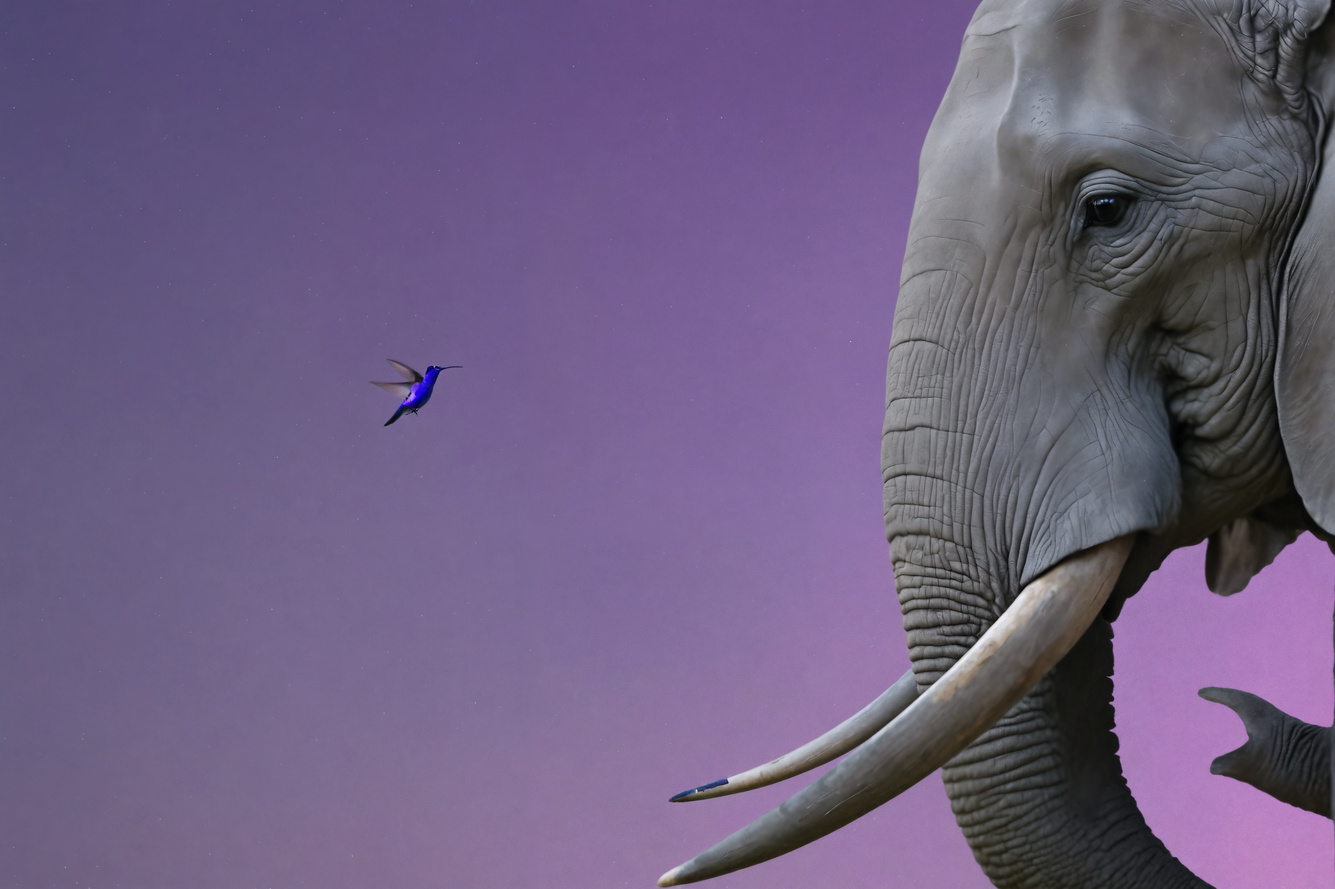
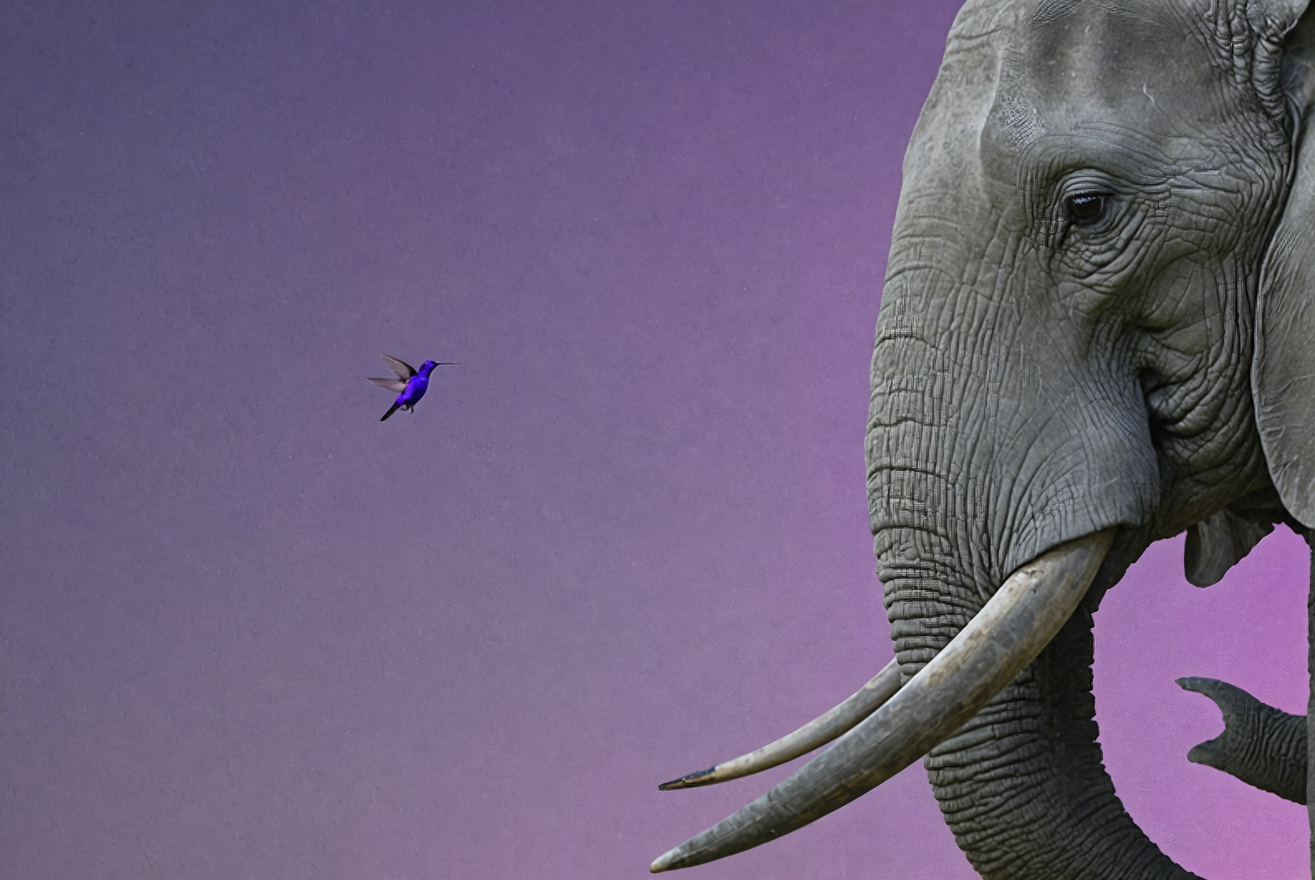
Commit with typo updates.

Changed region(s): [[0.4968, 0.0, 1.0, 1.0], [0.2795, 0.4037, 0.3416, 0.4658], [0.9005, 0.9937, 0.9316, 1.0]]

diff --git a/docs/overrides/home.html b/docs/overrides/home.html
@@ -10,7 +10,7 @@
 .tx-container {
     position: relative;
     min-height: 100vh;
-    background-image: url('./img/background2.jpg');
+    background-image: url('img/background1.jpg');
     background-size: cover;
     background-position: center;
     background-repeat: no-repeat;
